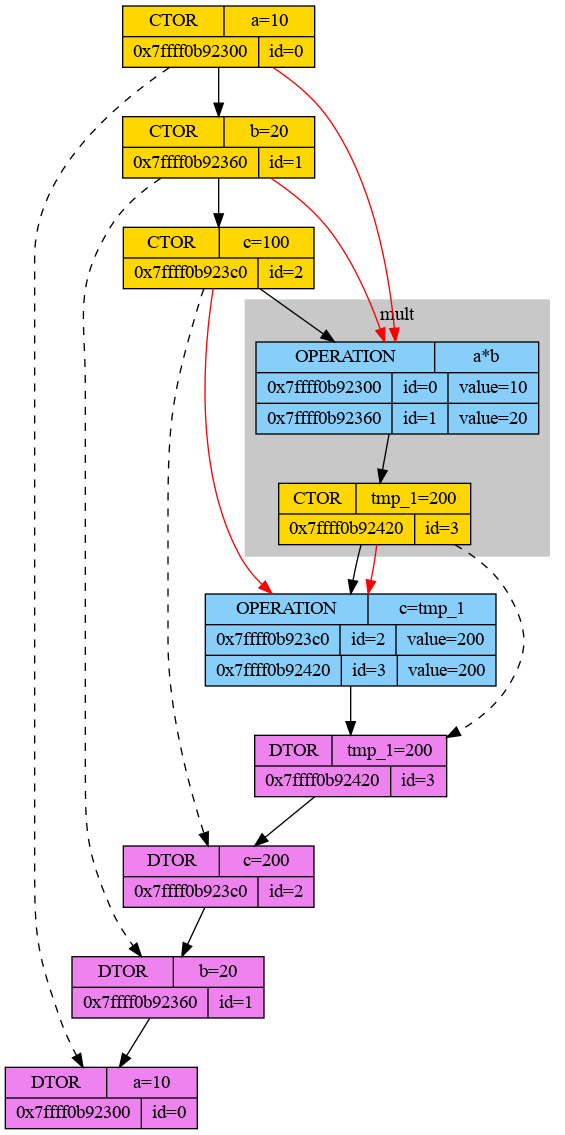
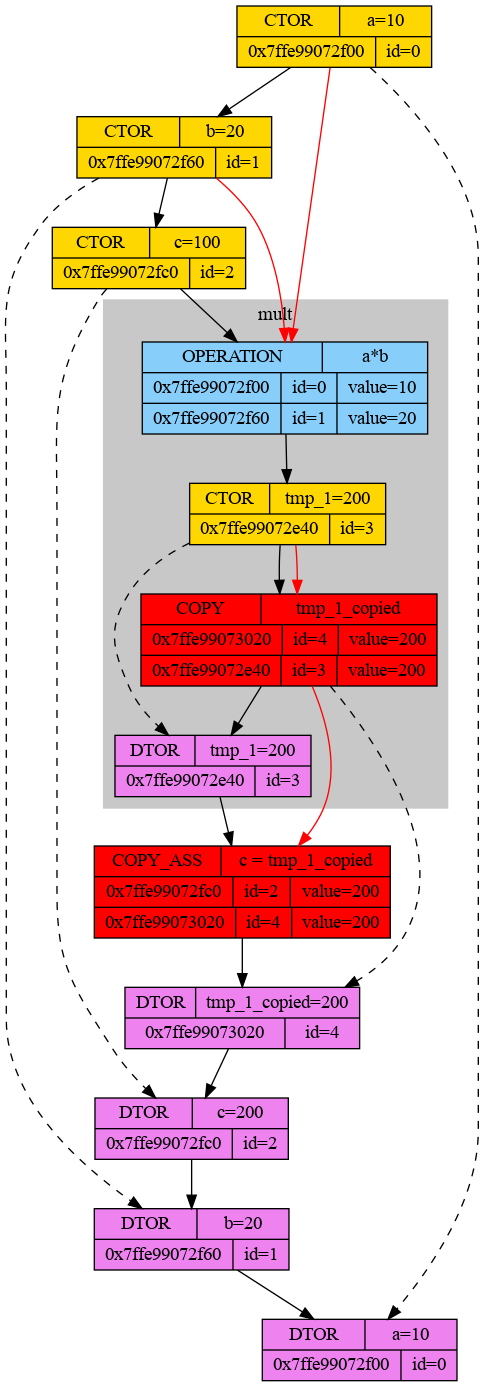
Update readme

diff --git a/Dumping_int/dump.html b/Dumping_int/dump.html
@@ -9,45 +9,65 @@ P {
 
 <p><font size="3" color="gold">[Calling_trace] CTOR Int::Int(int, std::string)
 </font>
-	<font size="3" color="gold">└──>[0x7ffedc6fbd70]: id = 0, a=130
+	<font size="3" color="gold">└──>[0x7ffcfd5f2060]: id = 0, a=130
 </font>
 <font size="3" color="gold">
 </font>
 <font size="3" color="gold">[Calling_trace] CTOR Int::Int(int, std::string)
 </font>
-	<font size="3" color="gold">└──>[0x7ffedc6fbdd0]: id = 1, b=160
+	<font size="3" color="gold">└──>[0x7ffcfd5f20c0]: id = 1, b=20
+</font>
+<font size="3" color="gold">
+</font>
+<font size="3" color="gold">[Calling_trace] CTOR Int::Int(int, std::string)
+</font>
+	<font size="3" color="gold">└──>[0x7ffcfd5f2120]: id = 2, c=0
 </font>
 <font size="3" color="gold">
 </font>
 <font size="3" color="darkcyan">[Calling_trace] OPERATION const Int Int::operator+(const Int&) const
 </font>
-	<font size="3" color="darkcyan">└──>[0x7ffedc6fbd70]: left  id = 0, a=130
+	<font size="3" color="darkcyan">└──>[0x7ffcfd5f2060]: left  id = 0, a=130
 </font>
-	<font size="3" color="darkcyan">└──>[0x7ffedc6fbdd0]: right id = 1, b=160
+	<font size="3" color="darkcyan">└──>[0x7ffcfd5f20c0]: right id = 1, b=20
 </font>
 <font size="3" color="darkcyan">
 </font>
 	<font size="3" color="gold">[Calling_trace] CTOR Int::Int(int, std::string)
 </font>
-		<font size="3" color="gold">└──>[0x7ffedc6fbe30]: id = 2, tmp_1=290
+		<font size="3" color="gold">└──>[0x7ffcfd5f2180]: id = 3, tmp_1=150
 </font>
 <font size="3" color="gold">
 </font>
+<font size="3" color="red">[Calling_trace] COPY_ASS Int& Int::operator=(const Int&)
+</font>
+	<font size="3" color="red">└──>[0x7ffcfd5f2120]: from id = 2, c=150
+</font>
+	<font size="3" color="red">└──>[0x7ffcfd5f2180]: to   id = 3, tmp_1=150
+</font>
+<font size="3" color="red">
+</font>
 <font size="3" color="purple">[Calling_trace] DTOR Int::~Int()
 </font>
-	<font size="3" color="purple">└──>[0x7ffedc6fbe30]: id = 2, tmp_1=290
+	<font size="3" color="purple">└──>[0x7ffcfd5f2180]: id = 3, tmp_1=150
 </font>
 <font size="3" color="purple">
 </font>
 <font size="3" color="purple">[Calling_trace] DTOR Int::~Int()
 </font>
-	<font size="3" color="purple">└──>[0x7ffedc6fbdd0]: id = 1, b=160
+	<font size="3" color="purple">└──>[0x7ffcfd5f2120]: id = 2, c=150
 </font>
 <font size="3" color="purple">
 </font>
 <font size="3" color="purple">[Calling_trace] DTOR Int::~Int()
 </font>
-	<font size="3" color="purple">└──>[0x7ffedc6fbd70]: id = 0, a=130
+	<font size="3" color="purple">└──>[0x7ffcfd5f20c0]: id = 1, b=20
+</font>
+<font size="3" color="purple">
+</font>
+<font size="3" color="purple">[Calling_trace] DTOR Int::~Int()
+</font>
+	<font size="3" color="purple">└──>[0x7ffcfd5f2060]: id = 0, a=130
 </font>
 <font size="3" color="purple">
 </font>

diff --git a/Dumping_int/Tests/testing.cpp b/Dumping_int/Tests/testing.cpp
@@ -6,27 +6,48 @@
 #define VAR(type, name, value) type name(value, #name)
 #define BEGIN_ANY_FUNC Function_name_sender sender(__FUNCTION__); 
 
-Int create_var() {
-	VAR(Int, new_var, 10);
-	return new_var;
-}
+// Int create_var() {
+// 	VAR(Int, new_var, 10);
+// 	return new_var;
+// }
 
-Int get_var(Int var) {
-	VAR(Int, help, 666);
-	return help;
-}
+// Int get_var(Int var) {
+// 	VAR(Int, help, 666);
+// 	return help;
+// }
+
+// Int sum(Int& a, Int& b) {
+// 	BEGIN_ANY_FUNC
+
+// 	Int res = a + b;
+
+// 	return res;
+// }
+
+// void testing() {
+// VAR(Int, a, 10);
+// 	VAR(Int, b, 20);
+// 	VAR(Int, c, 100);
+
+// 	c = a + b;
+// }
 
 Int sum(Int& a, Int& b) {
 	BEGIN_ANY_FUNC
 
-	Int res = a + b;
+	return a + b;
+}
 
-	return res;
+Int get_var(Int var) {
+	BEGIN_ANY_FUNC
+	
+	return var;
 }
 
 void testing() {
 	VAR(Int, a, 130);
-	VAR(Int, b, 160);
+	VAR(Int, b, 20);
+	VAR(Int, c, 0);
 
-	Int c = sum(a, b);
+	c=  sum(a, b);
 }

diff --git a/Dumping_int/README.md b/Dumping_int/README.md
@@ -1,6 +1,8 @@
 
-## Small study on copying variables 
-This project provides code for the Int class that implements an integer, as well as a set of tools for tracking the behavior of various operations on objects. All actions with this object (summation, subtraction, multiplication, division, assignment, and many others) are recorded, then written to the terminal, to an html file, and also presented as a graph.
+# Small study on copying variables 
+
+## Intro
+This project provides code for the Int class that implements an integer, as well as a set of tools for tracking the behavior of various operations on objects. All actions with this object (summation, subtraction, multiplication, division, assignment, and many others) are recorded, then written to the terminal, to an html file, and also presented as a graph. Investigation is done with the compilation flag turned on **-fno-elide-constructors** (not including the third paragraph).
 
 Why is this needed? Everyone around says that extra copying is bad, everyone argues that passing arguments should be done only by reference. But why? What happens if you do it differently? This mini-project is a small illustration and an answer to these questions. 
 
@@ -25,6 +27,7 @@ This picture is simple. Two variables are built, two are destroyed. Let's take a
 
 Operators are marked in blue. Three constructors are called first; then the operation takes place and the result is assigned to the **temporary variable**, which in turn is assigned to c. The summation operator calls the constructor and creates a temporary object.
 
+## First comparison
 Okay, now let's look at situations using different ways of passing an object to a function as an argument:
 
 ```
@@ -52,6 +55,7 @@ The first way is to pass the function object by value, the second way is to pass
 
 Wow! By passing by reference, we prevented two extra **copies**. Adorably!
 
+## Second comparison
 Now let's look at another way to optimize copies: add a move constructor. Look at an example:
 
 ```
@@ -78,4 +82,25 @@ Green boxes mean that the variable's move constructor has been called.
 
 So, when adding a move constructor, part of the copying is replaced by **moves**. Great! 
 
+## Third comparison
+At the very beginning of the article, it was said about the existence of the compilation flag **-fno-elide-constructors**. Let's try to run with on/off move-optimization and with/without this flag. Let's look at an example of such a simple program, what happens:
 
+'''
+Int sum(Int& a, Int& b) {
+	BEGIN_ANY_FUNC
+
+	return a + b;
+}
+
+void testing() {
+	VAR(Int, a, 130);
+	VAR(Int, b, 20);
+	VAR(Int, c, 0);
+
+	c =  sum(a, b);
+}
+'''
+
+| Off moves, off flag | Off moves, on flag  | On moves, off flag | On moves, on flag |
+|----------------|:---------:|----------------|-------------|
+| ![Examples10](https://github.com/x-ENIAC/MIPT_projects_4_sem/blob/master/Dumping_int/Examples/no-elide-no-moves.png) | ![Examples11](https://github.com/x-ENIAC/MIPT_projects_4_sem/blob/master/Dumping_int/Examples/elide-no-moves.png)  | ![Examples12](https://github.com/x-ENIAC/MIPT_projects_4_sem/blob/master/Dumping_int/Examples/no-elide-with-moves.png) | ![Examples13](https://github.com/x-ENIAC/MIPT_projects_4_sem/blob/master/Dumping_int/Examples/elide-with-moves.png) |
